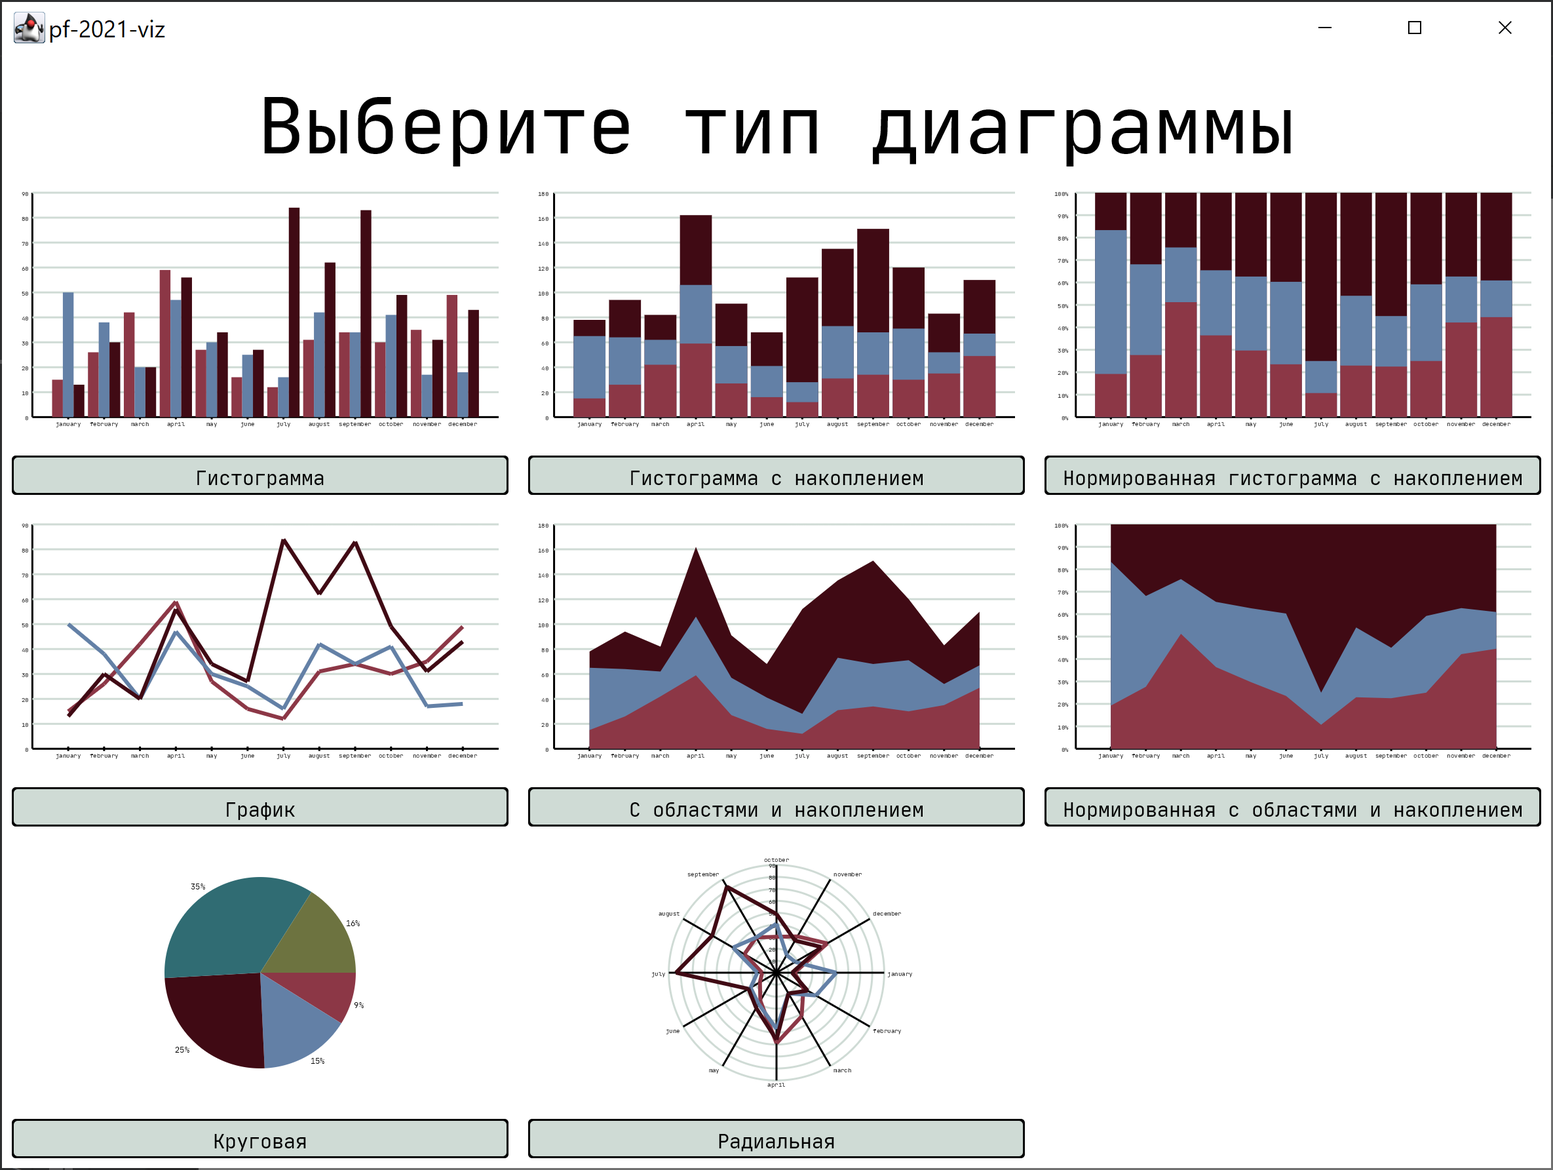
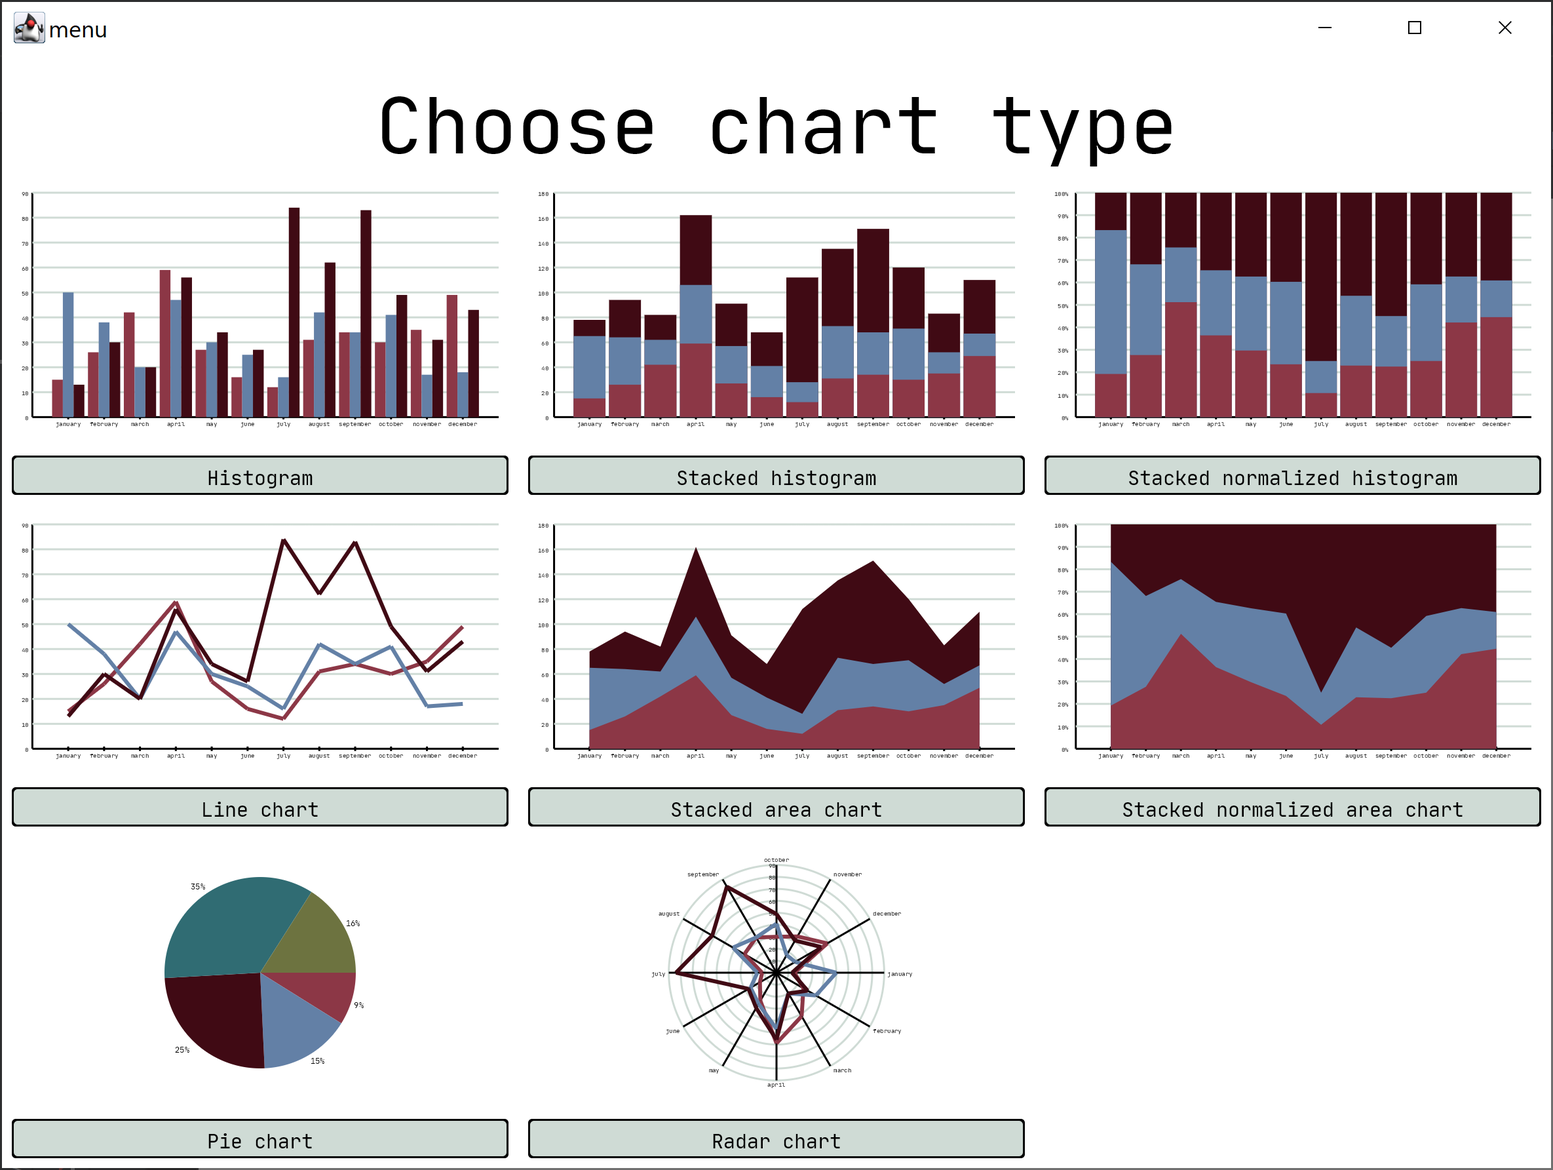
translated

diff --git a/src/main/kotlin/drawing.kt b/src/main/kotlin/drawing.kt
@@ -32,11 +32,11 @@ class MainRenderer(private val layer: SkiaLayer): SkiaRenderer {
     }
 
     private fun drawChoosingChartScreen(canvas: Canvas, w: Int, h : Int) {
-        val header = "Выберите тип диаграммы"
+        val header = "Choose chart type"
         canvas.drawString(header, (w - headerFont.measureTextWidth(header)) / 2, headerFont.size + 10f, headerFont, blackPaint)
-        val headerH = headerFont.size + 20f // Высота заголовка с отступами
+        val headerH = headerFont.size + 20f // indented header height
         val chunkW = w.toFloat() / 3
-        val chunkH = (h - headerH) / 3 // Размеры одной части экрана, в которой помещается один вид диаграммы
+        val chunkH = (h - headerH) / 3 // size of the part of the screen for one chart
 
         buttons.clear()
         for (chunkX in 0..2) {
@@ -48,7 +48,7 @@ class MainRenderer(private val layer: SkiaLayer): SkiaRenderer {
                 val x = chunkX * chunkW
                 val y = headerH + chunkY * chunkH
 
-                // кнопка с названием диаграммы
+                // button with name of chart
                 val rectX0 = x + 5f
                 val rectX1 = x + chunkW - 5f
                 val rectY0 = y + chunkH - 25f
@@ -64,7 +64,7 @@ class MainRenderer(private val layer: SkiaLayer): SkiaRenderer {
                     basicFont, blackPaint
                 )
 
-                // предпросмотр диаграммы
+                // chart preview
                 chartDrawFunction[chartType]?.invoke(canvas,
                     x + 10f, y + 10f, chunkW - 20f, chunkH - 50f)
             }
@@ -74,8 +74,8 @@ class MainRenderer(private val layer: SkiaLayer): SkiaRenderer {
     private fun drawChartParametersScreen(canvas: Canvas) {
         require(chosenChart != null)
         buttons.clear()
-        canvas.drawString("Параметры", 20f, 20f + headerFont.size, headerFont, blackPaint)
-        canvas.drawString("Выберите цветовую тему", 20f, 100f + headerFont.size, basicFont, blackPaint)
+        canvas.drawString("Parameters", 20f, 20f + headerFont.size, headerFont, blackPaint)
+        canvas.drawString("Choose palette", 20f, 100f + headerFont.size, basicFont, blackPaint)
         val palettesY = 100f + headerFont.size + basicFont.size + 10f
         for (i in palettes.indices) {
             createButton(canvas, i * 120f + 20f, palettesY, (i + 1) * 120f, palettesY + 20f) {
@@ -88,7 +88,7 @@ class MainRenderer(private val layer: SkiaLayer): SkiaRenderer {
         }
 
         val showingLegendY = palettesY + 100f
-        val textShowingLegend = "Отображать легенду"
+        val textShowingLegend = "Show legend"
         canvas.drawString(textShowingLegend, 20f, showingLegendY + 5f,
             basicFont, blackPaint)
         val showingLegendButtonX = basicFont.measureTextWidth(textShowingLegend) + 30f
@@ -105,7 +105,7 @@ class MainRenderer(private val layer: SkiaLayer): SkiaRenderer {
 
         val saveY = showingLegendY + 100f
         createButton(canvas, 20f, saveY, 220f, saveY + 40f, ::saveInFileAndExit)
-        val saveText = "Сохранить и выйти"
+        val saveText = "Save and quit"
         canvas.drawString(saveText, 20f + (200f - basicFont.measureTextWidth(saveText)) / 2,
             saveY + 25f, basicFont, blackPaint)
     }
@@ -199,9 +199,9 @@ private fun drawScale(canvas: Canvas, step: Int, stepNum: Int,
 }
 
 fun drawBarChart(canvas: Canvas, x: Float, y: Float, w: Float, h: Float) {
-    val dataNum = min(inputData.data.size, 5) // количество отображаемых наборов данных
+    val dataNum = min(inputData.data.size, 5) // number of displayed data sets
     val maxValue = inputData.data.subList(0, dataNum).maxOf { it.maxOf { x -> x } }
-    val (step, stepNum) = calculateStep(maxValue) // вертикальный шаг сетки и количество делений
+    val (step, stepNum) = calculateStep(maxValue) // vertical grid spacing and number of segments
 
     val fontSize = w / 80
     val font = Font(typeface, fontSize)
@@ -213,7 +213,7 @@ fun drawBarChart(canvas: Canvas, x: Float, y: Float, w: Float, h: Float) {
 
     drawScale(canvas, step, stepNum, x, y, h - bottomTab, font)
 
-    val horStepLen = (w - leftTab) / (len + 1) // длина одного горизонтального деления
+    val horStepLen = (w - leftTab) / (len + 1) // length of one horizontal segment
     inputData.firstRow.forEachIndexed { i, name ->
         canvas.drawString(name, x + leftTab + horStepLen * (i + 1) - font.measureTextWidth(name) / 2,
             y + h, font, blackPaint)
@@ -231,7 +231,7 @@ fun drawBarChart(canvas: Canvas, x: Float, y: Float, w: Float, h: Float) {
 }
 
 fun drawStackedBarChart(canvas: Canvas, x: Float, y: Float, w: Float, h: Float) {
-    val dataNum = min(inputData.data.size, 5) // количество отображаемых наборов данных
+    val dataNum = min(inputData.data.size, 5) // number of displayed data sets
     val prefixSums = List(inputData.firstRow.size) { mutableListOf(0) }
     for (i in inputData.firstRow.indices) {
         inputData.data.forEach {
@@ -239,7 +239,7 @@ fun drawStackedBarChart(canvas: Canvas, x: Float, y: Float, w: Float, h: Float) 
         }
     }
     val maxValue = prefixSums.maxOf { it.last() }
-    val (step, stepNum) = calculateStep(maxValue) // вертикальный шаг сетки и количество делений
+    val (step, stepNum) = calculateStep(maxValue) // vertical grid spacing and number of segments
 
     val fontSize = w / 80
     val font = Font(typeface, fontSize)
@@ -251,7 +251,7 @@ fun drawStackedBarChart(canvas: Canvas, x: Float, y: Float, w: Float, h: Float) 
 
     drawScale(canvas, step, stepNum, x, y, h - bottomTab, font)
 
-    val horStepLen = (w - leftTab) / (len + 1) // длина одного горизонтального деления
+    val horStepLen = (w - leftTab) / (len + 1) // length of one horizontal segment
     inputData.firstRow.forEachIndexed { i, name ->
         canvas.drawString(name, x + leftTab + horStepLen * (i + 1) - font.measureTextWidth(name) / 2,
             y + h, font, blackPaint)
@@ -267,14 +267,14 @@ fun drawStackedBarChart(canvas: Canvas, x: Float, y: Float, w: Float, h: Float) 
 }
 
 fun drawNormStackedBarChart(canvas: Canvas, x: Float, y: Float, w: Float, h: Float) {
-    val dataNum = min(inputData.data.size, 5) // количество отображаемых наборов данных
+    val dataNum = min(inputData.data.size, 5) // number of displayed data sets
     val prefixSums = List(inputData.firstRow.size) { mutableListOf(0) }
     for (i in inputData.firstRow.indices) {
         inputData.data.forEach {
             prefixSums[i].add(prefixSums[i].last() + it[i])
         }
     }
-    val (step, stepNum) = Pair(10, 10) // вертикальный шаг сетки и количество делений
+    val (step, stepNum) = Pair(10, 10) // vertical grid spacing and number of segments
 
     val fontSize = w / 80
     val font = Font(typeface, fontSize)
@@ -286,7 +286,7 @@ fun drawNormStackedBarChart(canvas: Canvas, x: Float, y: Float, w: Float, h: Flo
 
     drawScale(canvas, step, stepNum, x, y, h - bottomTab, font, true)
 
-    val horStepLen = (w - leftTab) / (len + 1) // длина одного горизонтального деления
+    val horStepLen = (w - leftTab) / (len + 1) // length of one horizontal segment
     inputData.firstRow.forEachIndexed { i, name ->
         canvas.drawString(name, x + leftTab + horStepLen * (i + 1) - font.measureTextWidth(name) / 2,
             y + h, font, blackPaint)
@@ -302,9 +302,9 @@ fun drawNormStackedBarChart(canvas: Canvas, x: Float, y: Float, w: Float, h: Flo
 }
 
 fun drawLineChart(canvas: Canvas, x: Float, y: Float, w: Float, h: Float) {
-    val dataNum = min(inputData.data.size, 5) // количество отображаемых наборов данных
+    val dataNum = min(inputData.data.size, 5) // number of displayed data sets
     val maxValue = inputData.data.subList(0, dataNum).maxOf { it.maxOf { x -> x } }
-    val (step, stepNum) = calculateStep(maxValue) // вертикальный шаг сетки и количество делений
+    val (step, stepNum) = calculateStep(maxValue) // vertical grid spacing and number of segments
 
     val fontSize = w / 80
     val font = Font(typeface, fontSize)
@@ -316,7 +316,7 @@ fun drawLineChart(canvas: Canvas, x: Float, y: Float, w: Float, h: Float) {
 
     drawScale(canvas, step, stepNum, x, y, h - bottomTab, font)
 
-    val horStepLen = (w - leftTab) / (len + 1) // длина одного горизонтального деления
+    val horStepLen = (w - leftTab) / (len + 1) // length of one horizontal segment
     inputData.firstRow.forEachIndexed { i, name ->
         canvas.drawString(name, x + leftTab + horStepLen * (i + 1) - font.measureTextWidth(name) / 2,
             y + h, font, blackPaint)
@@ -333,7 +333,7 @@ fun drawLineChart(canvas: Canvas, x: Float, y: Float, w: Float, h: Float) {
 }
 
 fun drawAreaChart(canvas: Canvas, x: Float, y: Float, w: Float, h: Float) {
-    val dataNum = min(inputData.data.size, 5) // количество отображаемых наборов данных
+    val dataNum = min(inputData.data.size, 5) // number of displayed data sets
     val prefixSums = List(inputData.firstRow.size) { mutableListOf(0) }
     for (i in inputData.firstRow.indices) {
         inputData.data.forEach {
@@ -341,7 +341,7 @@ fun drawAreaChart(canvas: Canvas, x: Float, y: Float, w: Float, h: Float) {
         }
     }
     val maxValue = prefixSums.maxOf { it.last() }
-    val (step, stepNum) = calculateStep(maxValue) // вертикальный шаг сетки и количество делений
+    val (step, stepNum) = calculateStep(maxValue) // vertical grid spacing and number of segments
 
     val fontSize = w / 80
     val font = Font(typeface, fontSize)
@@ -353,7 +353,7 @@ fun drawAreaChart(canvas: Canvas, x: Float, y: Float, w: Float, h: Float) {
 
     drawScale(canvas, step, stepNum, x, y, h - bottomTab, font)
 
-    val horStepLen = (w - leftTab) / (len + 1) // длина одного горизонтального деления
+    val horStepLen = (w - leftTab) / (len + 1) // length of one horizontal segment
     inputData.firstRow.forEachIndexed { i, name ->
         canvas.drawString(name, x + leftTab + horStepLen * (i + 1) - font.measureTextWidth(name) / 2,
             y + h, font, blackPaint)
@@ -371,14 +371,14 @@ fun drawAreaChart(canvas: Canvas, x: Float, y: Float, w: Float, h: Float) {
 }
 
 fun drawNormAreaChart(canvas: Canvas, x: Float, y: Float, w: Float, h: Float) {
-    val dataNum = min(inputData.data.size, 5) // количество отображаемых наборов данных
+    val dataNum = min(inputData.data.size, 5) // number of displayed data sets
     val prefixSums = List(inputData.firstRow.size) { mutableListOf(0) }
     for (i in inputData.firstRow.indices) {
         inputData.data.forEach {
             prefixSums[i].add(prefixSums[i].last() + it[i])
         }
     }
-    val (step, stepNum) = Pair(10, 10) // вертикальный шаг сетки и количество делений
+    val (step, stepNum) = Pair(10, 10) // vertical grid spacing and number of segments
 
     val fontSize = w / 80
     val font = Font(typeface, fontSize)
@@ -390,7 +390,7 @@ fun drawNormAreaChart(canvas: Canvas, x: Float, y: Float, w: Float, h: Float) {
 
     drawScale(canvas, step, stepNum, x, y, h - bottomTab, font, true)
 
-    val horStepLen = (w - leftTab) / (len + 1) // длина одного горизонтального деления
+    val horStepLen = (w - leftTab) / (len + 1) // length of one horizontal segment
     inputData.firstRow.forEachIndexed { i, name ->
         canvas.drawString(name, x + leftTab + horStepLen * (i + 1) - font.measureTextWidth(name) / 2,
             y + h, font, blackPaint)
@@ -409,7 +409,7 @@ fun drawNormAreaChart(canvas: Canvas, x: Float, y: Float, w: Float, h: Float) {
 
 fun drawPieChart(canvas: Canvas, x: Float, y: Float, w: Float, h: Float) {
     val data = inputData.data.first()
-    val dataNum = min(5, data.size) // максимальное количество сегментов
+    val dataNum = min(5, data.size) // max number of segments
     val prefixSums = mutableListOf(0)
     for (i in 0 until dataNum)
         prefixSums.add(prefixSums.last() + data[i])
@@ -445,9 +445,9 @@ fun drawPieChart(canvas: Canvas, x: Float, y: Float, w: Float, h: Float) {
 }
 
 fun drawRadarChart(canvas: Canvas, x: Float, y: Float, w: Float, h: Float) {
-    val dataNum = min(inputData.data.size, 5) // количество отображаемых наборов данных
+    val dataNum = min(inputData.data.size, 5) // number of displayed data sets
     val maxValue = inputData.data.subList(0, dataNum).maxOf { it.maxOf { x -> x } }
-    val (step, stepNum) = calculateStep(maxValue) // шаг оси и количество делений
+    val (step, stepNum) = calculateStep(maxValue) // grid spacing and number of segments
     val angleStep = 2 * PI / inputData.firstRow.size
 
     val fontSize = w / 80
@@ -457,7 +457,7 @@ fun drawRadarChart(canvas: Canvas, x: Float, y: Float, w: Float, h: Float) {
     val centerX = x + w / 2
     val centerY = y + h / 2
     val radius = min(w / 2 - tab, h / 2 - fontSize * 3 / 2)
-    // рисование радиальной сетки
+    // radar grid drawing
     for (i in 1..stepNum)
         canvas.drawCircle(centerX, centerY, radius / stepNum * i,
             greyPaintStroke)
@@ -482,7 +482,7 @@ fun drawRadarChart(canvas: Canvas, x: Float, y: Float, w: Float, h: Float) {
     drawScale(canvas, step, stepNum, centerX - font.measureTextWidth((step * stepNum).toString()) * 11 / 10,
         centerY - radius, radius, font)
 
-    // рисование данных
+    // drawing data
     for (pos in 0 until dataNum) {
         val polygon = inputData.data[pos].mapIndexed { i, value ->
             val rad = value.toFloat() / step * radius / stepNum

diff --git a/src/main/kotlin/charts.kt b/src/main/kotlin/charts.kt
@@ -14,12 +14,12 @@ val chartDrawFunction = mapOf(
 )
 
 val nameOfChart = mapOf(
-    ChartType.Bar to "Гистограмма",
-    ChartType.StackedBar to "Гистограмма с накоплением",
-    ChartType.NormStackedBAr to "Нормированная гистограмма с накоплением",
-    ChartType.Line to "График",
-    ChartType.Area to "С областями и накоплением",
-    ChartType.NormArea to "Нормированная с областями и накоплением",
-    ChartType.Pie to "Круговая",
-    ChartType.Radar to "Радиальная"
+    ChartType.Bar to "Histogram",
+    ChartType.StackedBar to "Stacked histogram",
+    ChartType.NormStackedBAr to "Stacked normalized histogram",
+    ChartType.Line to "Line chart",
+    ChartType.Area to "Stacked area chart",
+    ChartType.NormArea to "Stacked normalized area chart",
+    ChartType.Pie to "Pie chart",
+    ChartType.Radar to "Radar chart"
 )

diff --git a/src/main/kotlin/main.kt b/src/main/kotlin/main.kt
@@ -58,7 +58,7 @@ fun main(args: Array<String>) {
         inputData = getDataFromFile(args[0])
         checkData(inputData)
         createChartWindow("chart")
-        createMainWindow("pf-2021-viz")
+        createMainWindow("menu")
     } catch (e : Exception) {
         println(e.message)
     }

diff --git a/README.md b/README.md
@@ -1,36 +1,26 @@
-# Курс основ программирования на МКН СПбГУ
-## Проект 3: визуализация данных
+# Basics of programming course: data visualization, charts
 
-[Постановка задачи](./TASK.md)
+### Usage
 
-### Описание работы программы
+The name of the file with the data for building the chart
+is passed to the program as the argument.
 
-Программе в качестве аргумента командной строки передаётся имя файла
-с данными для построения диаграммы.
+The data are presented in the form of a table (see examples).
 
-Данные должны быть представлены в виде таблицы: первое слово в каждой 
-строке - это название строки. В первой строке содержатся названия столбцов,
-в остальных неотрицательные целые числа - данные. Во всех строках должно
-быть равное количество слов. (см. примеры)
+When you start the program, two windows open - the first one will offer to
+select the chart format. To select it, click on the button with the chart
+name. After that the chart parameters will appear, and
+in the second window the required chart will be drawn.
 
-Если в файле больше пяти строк с данными, то отображены будут только
-первые пять. Также при построении круговой диаграммы используется только
-одна строка с данными, причем из неё берется не больше пяти первых значений.
+You can change the chart parameters by clicking on the 
+corresponding buttons.
 
-При запуске программы открываются два окна - в первом будет предложено
-выбрать требуемый формат диаграммы, для выбора необходимо кликнуть по
-кнопке с названием диаграммы, после чего появятся параметры диаграммы, а
-во втором окне требуемая диаграмма будет нарисована.
+To save the chart and stop the program, you can click the "Save and quit" 
+button. The chart will be saved in file "output.png".
 
-Вы можете изменять параметры диаграммы - цветовую палитру и видимость 
-легенды, нажимая на соответствующие кнопки.
+### Examples
 
-Для сохранения диаграммы и завершения работы программы необходимо нажать
-кнопку "Сохранить и выйти". Диаграмма будет сохранена в файл output.png.
-
-### Примеры работы программы
-
-Файл data.txt содержит:
+File "data.txt" contains:
 
 <pre>
 Months january february march april may june july august september october november december
@@ -39,20 +29,20 @@ Company2 50 38 20 47 30 25 16 42 34 41 17 18
 Company3 13 30 20 56 34 27 84 62 83 49 31 43
 </pre>
 
-При запуске программы с аргументом data.txt откроется окно
+When you run the program with argument "data.txt", a window will open:
 
 ![image](./pictures/1.png)
 
-При нажатии на кнопку "Гистограмма" во втором окне
-появится диаграмма
+When you click on the "Histogram" button in the second window
+a chart will appear:
 
 ![image](./pictures/2.png)
 
-Изменение параметров:
+Changing parameters:
 
 ![image](./pictures/3.png)
 
 ![image](./pictures/4.png)
 
-При нажатии на кнопку "Сохранить и выйти" программа завершается
-и сохраняет диаграмму в файл.
+When you click on the "Save and quit" button, the program ends
+and saves the chart to a file.
